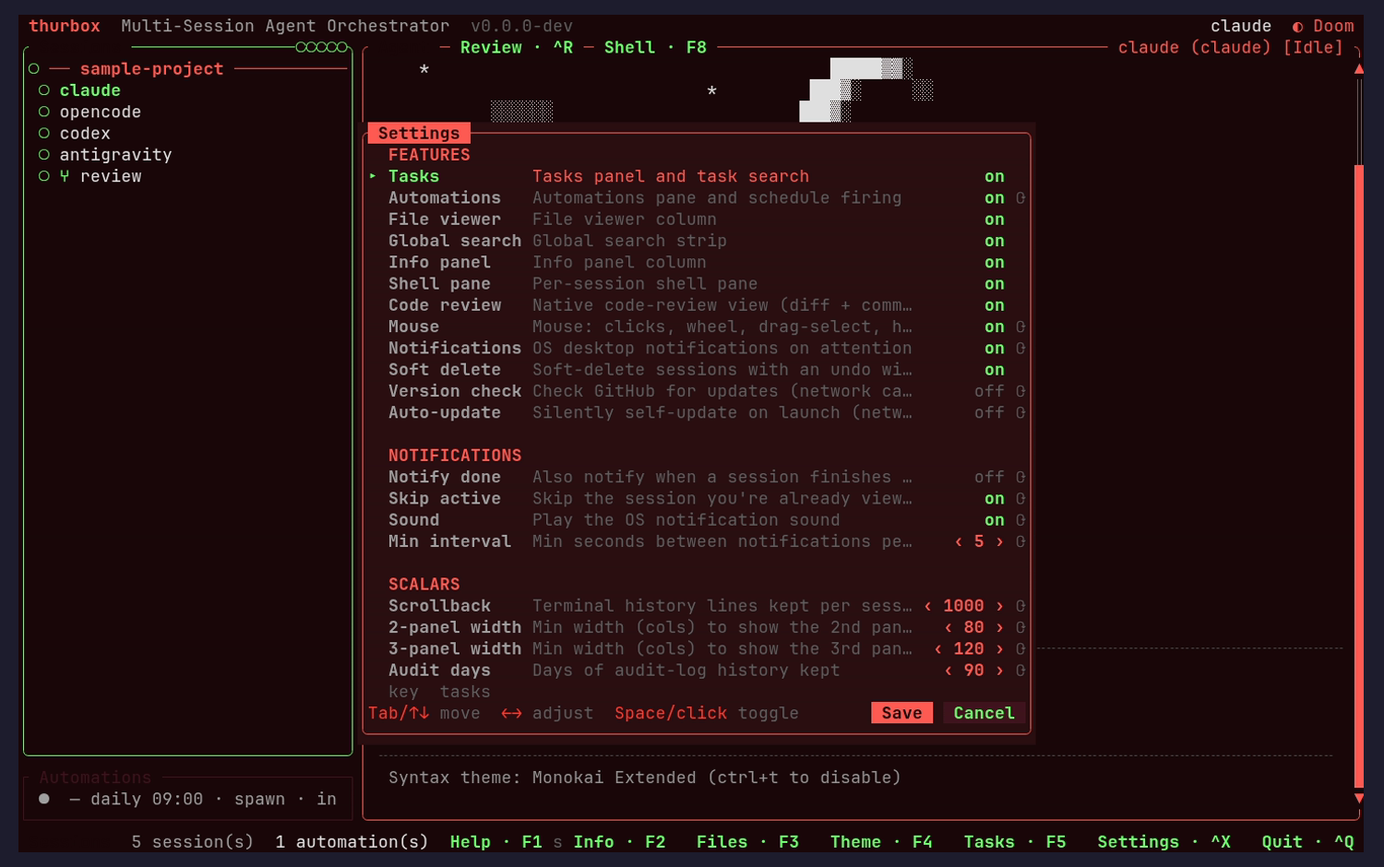
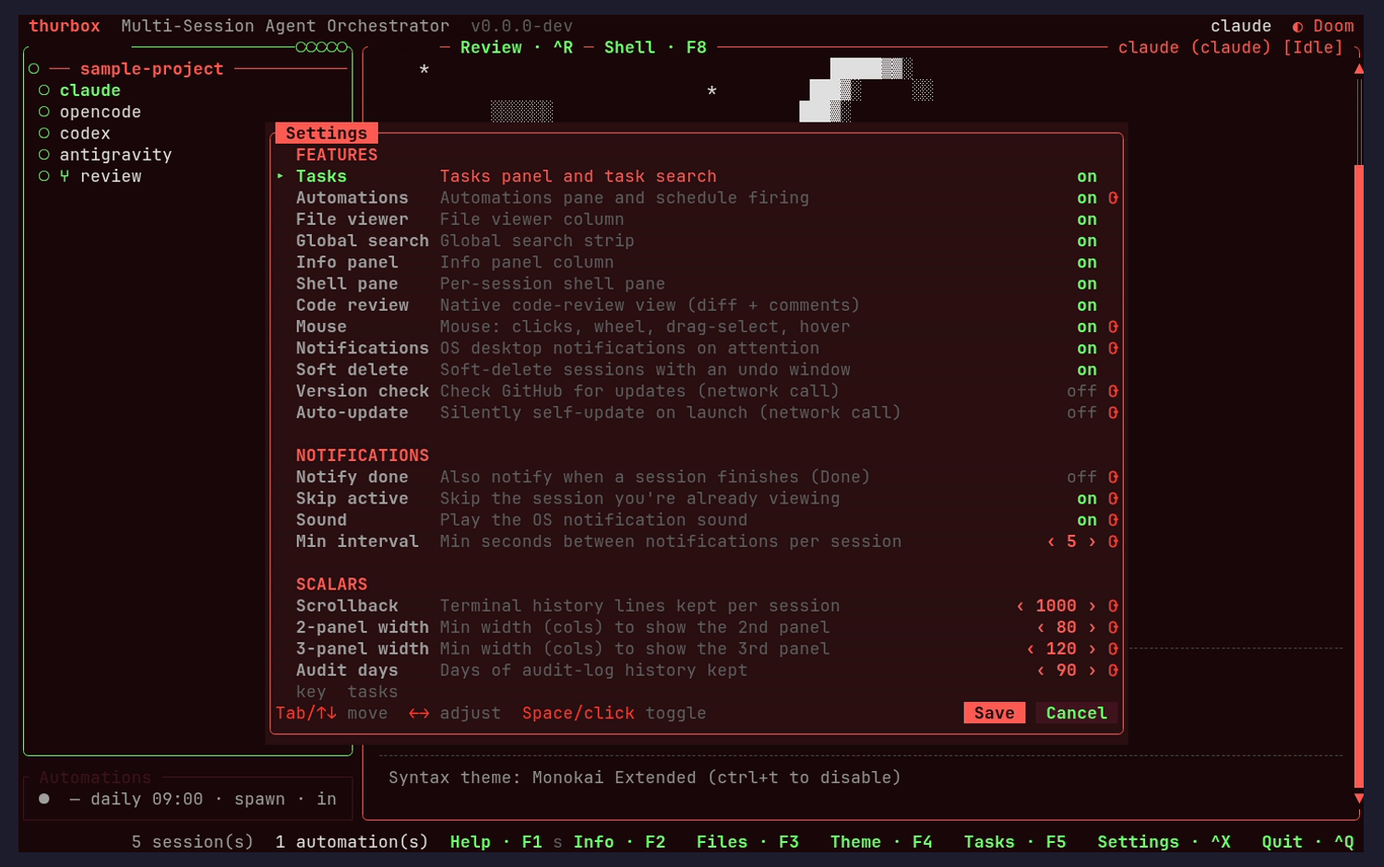
fix(ui): stop footer/value overlap in repo picker and settings panel
The UI/UX review flagged two warnings:

- Repo picker: the focus-dependent key-hint row was painted full-width and
  the Done/Cancel pills drawn on top, so a wide hint collided with them
  ("Ta█Done█t Cancel"). Add a shared render_hint_action_footer that draws the
  right-packed pills first, then clips the hint to the space left of the
  leftmost pill (minus a one-column gap) so it elides cleanly.

- Settings panel: descriptions truncated aggressively because the modal was
  a fixed 66 cols. Widen it to 84 cols on >=120-col terminals so the longest
  descriptions render in full; the value column is unchanged. The faint
  muted-gray restart marker now reuses the bold accent-warning colour of the
  restart note, and its restart_required() lookup is computed once per row.

Regenerate the website UI/UX review page: both warnings are resolved and the
run now reports findings that are all nits.

diff --git a/website/docs/ui-review.html b/website/docs/ui-review.html
@@ -22,13 +22,14 @@ onThisPage:
   - { id: 'screen-13', label: 'Task editor (in-pane)' }
   - { id: 'screen-14', label: 'Code-review view (branch diff + changed-files column)' }
   - { id: 'screen-15', label: 'Code review: inline comment compose + classification' }
-  - { id: 'screen-16', label: 'Code review: target picker (working / branch / commit)' }
+  - { id: 'screen-16', label: 'Code review: side-by-side diff layout' }
+  - { id: 'screen-17', label: 'Code review: target picker (working / branch / commit)' }
 ---
 <h1>thurbox TUI — UI/UX Review</h1>
 <div class="review-meta">
-  <span>thurbox v0.0.0-dev</span>
+  <span>thurbox 0.0.0-dev</span>
   <span>theme: Doom</span>
-  <span>generated 2026-06-30 06:40 UTC</span>
+  <span>generated 2026-06-30 18:43 UTC</span>
 </div>
 
 <div class="info-box">
@@ -40,24 +41,25 @@ onThisPage:
   </p>
 </div>
 
-<h2 id="summary">Summary — 22 findings across 16 screens</h2>
-<div class="sev-counts"><span class="sev-pill"><span class="dot" style="background:var(--yellow)"></span>2 warnings</span><span class="sev-pill"><span class="dot" style="background:var(--blue)"></span>20 nits</span><span class="sev-pill"><span class="dot" style="background:var(--purple)"></span>7 visual</span><span class="sev-pill"><span class="dot" style="background:var(--green)"></span>8 usability</span><span class="sev-pill"><span class="dot" style="background:var(--yellow)"></span>4 consistency</span><span class="sev-pill"><span class="dot" style="background:var(--blue)"></span>3 accessibility</span></div>
+<h2 id="summary">Summary — 21 findings across 17 screens</h2>
+<div class="sev-counts"><span class="sev-pill"><span class="dot" style="background:var(--blue)"></span>21 nits</span><span class="sev-pill"><span class="dot" style="background:var(--purple)"></span>8 visual</span><span class="sev-pill"><span class="dot" style="background:var(--green)"></span>8 usability</span><span class="sev-pill"><span class="dot" style="background:var(--yellow)"></span>4 consistency</span><span class="sev-pill"><span class="dot" style="background:var(--blue)"></span>1 accessibility</span></div>
 <h3>Top recommendations</h3>
-<ol><li>Modal footer crowding (the one concrete defect this run): on the repo picker the textual key-hint row collides with the Save/Done/Cancel pill buttons at this width — &quot;Tab&quot; is rendered partially underneath the &quot;Done&quot; pill (&quot;Ta█Done█t Cancel&quot;). Reserve the button strip its own right-aligned space and elide/clip the hint row before it reaches the buttons.</li><li>Settings panel polish: feature/notification descriptions truncate aggressively with &quot;…&quot; because the value column + restart marker eat horizontal room, and the restart-required marker after a value is very low-contrast. Widen the description column at ≥120 cols and render the restart marker as a clearer accent/warning glyph (or add a one-line legend).</li><li>Theme picker preview: the Accent and Status-glyph swatches read clearly, but the Border and Modal-bg preview chips are nearly invisible (thin outline / dark-on-dark). Render all four as filled chips so the live preview communicates the whole palette.</li><li>Consistent long-value truncation: several panels clip differently — the info panel wraps &quot;not logged in (no subscription token)&quot; across three lines, the automation editor shows a full absolute repo path, and the bottom Automations pane cuts off &quot;… · in &lt;time&gt;&quot;. Adopt one middle-truncation rule that keeps the most useful end (repo leaf, next-run time) visible.</li><li>Confirmed resolved: the prior blocker (global-search highlight crash on truncated rows) does not reproduce — searching &quot;test&quot; highlights truncated task rows like &quot;Document the search f…&quot; with underline+bold and no panic.</li><li>The native code-review view is well-realized: per-file diff headers with +/- counts, syntax-highlighted hunks, a mirrored changed-files column, in-context inline comment compose, and a target picker (working / branch / per-commit) — see the three code-review screens below.</li><li>Coverage caveat (not a product issue): the side-by-side diff layout is not shown this run. At the capture width the split-column layout falls back to unified, so that one screenshot was excluded; re-capture at a wider terminal to feature it.</li></ol>
+<ol><li>Both prior warnings are resolved this run: the repo-picker footer no longer overlaps its action pills (the hint clips with a clean gap before Done/Cancel), and the Settings panel widens to ~84 cols at ≥120-col terminals so every feature/notification description renders in full instead of clipping with “…”, with the ↻ restart marker now an accent-warning glyph instead of near-invisible gray.</li><li>Theme picker preview (nit, unchanged): the Accent swatches and Status glyphs read clearly, but the Border and Modal-bg preview chips are still nearly invisible (thin outline / dark-on-dark). Render all four as filled chips so the live preview communicates the whole palette.</li><li>Consistent long-value truncation (nit, unchanged): the info panel still wraps “not logged in (no subscription token)” across three lines, the automation editor shows a full absolute repo path, and the bottom Automations pane cuts off “… · in &lt;time&gt;”. Adopt one middle-truncation rule that keeps the most useful end (repo leaf, next-run time) visible.</li><li>Side-by-side diff layout is now captured (the prior coverage caveat is resolved): the split-column view renders one source line per row with add/del on their own side. The native code-review view remains well-realized — per-file headers with +/- counts, syntax-highlighted hunks, mirrored changed-files column, inline comment compose, and a working/branch/commit target picker.</li><li>No blockers or warnings remain; the open items are all polish nits.</li></ol>
 
-<div class="review-card" id="screen-1"><h3>Session list + terminal (default view) <span class="keys">launch</span></h3><div class="review-shot"><img loading="lazy" alt="Session list + terminal (default view)" src="../assets/ui-review/01-session-list.png"></div><div class="review-findings"><div class="finding"><span class="sev" style="color:var(--blue);border-color:var(--blue)">nit</span><div class="body"><span class="ftitle">Footer surfaces the F-key panel alternates</span><span class="lens" style="color:var(--green);border-color:var(--green)">usability</span><div class="fdesc">The bottom bar shows Help·F1, Tasks·F5, Files·F3, Settings, Theme·F4 directly, so a user whose terminal is focused (where the Ctrl panel chords pass through to the agent) still has a discoverable way to reach each panel.</div><div class="ffix"><b>Fix:</b> No change needed — noted as a strength; it mitigates the terminal-passthrough discoverability gap.</div></div></div><div class="finding"><span class="sev" style="color:var(--blue);border-color:var(--blue)">nit</span><div class="body"><span class="ftitle">Session status uses shape + colour</span><span class="lens" style="color:var(--blue);border-color:var(--blue)">accessibility</span><div class="fdesc">Each session shows a status glyph and repo groups roll up to a colored dot; idle/working/blocked/done use distinct shapes (○/spinner/◆/●) in addition to colour, so status survives colour-blindness.</div><div class="ffix"><b>Fix:</b> No change needed — noted as a strength.</div></div></div><div class="finding"><span class="sev" style="color:var(--blue);border-color:var(--blue)">nit</span><div class="body"><span class="ftitle">Automations pane summary is cut off at the column edge</span><span class="lens" style="color:var(--purple);border-color:var(--purple)">visual</span><div class="fdesc">The bottom-left Automations summary renders as &quot;daily 09:00 · spawn · in&quot; with the actual next-run value clipped off the right edge of the narrow left column.</div><div class="ffix"><b>Fix:</b> Middle-truncate the summary so the &quot;in &lt;time&gt;&quot; tail stays visible, or drop the cadence text when space is tight.</div></div></div></div></div>
+<div class="review-card" id="screen-1"><h3>Session list + terminal (default view) <span class="keys">launch</span></h3><div class="review-shot"><img loading="lazy" alt="Session list + terminal (default view)" src="../assets/ui-review/01-session-list.png"></div><div class="review-findings"><div class="finding"><span class="sev" style="color:var(--blue);border-color:var(--blue)">nit</span><div class="body"><span class="ftitle">Footer surfaces the F-key panel alternates</span><span class="lens" style="color:var(--green);border-color:var(--green)">usability</span><div class="fdesc">The bottom bar shows Help·F1, Info·F2, Files·F3, Theme·F4, Tasks·F5, Settings·^X, Quit·^Q directly, so a user whose terminal is focused (where the Ctrl panel chords pass through to the agent) still has a discoverable way to reach each panel.</div><div class="ffix"><b>Fix:</b> No change needed — noted as a strength; it mitigates the terminal-passthrough discoverability gap.</div></div></div><div class="finding"><span class="sev" style="color:var(--blue);border-color:var(--blue)">nit</span><div class="body"><span class="ftitle">Automations pane summary is cut off at the column edge</span><span class="lens" style="color:var(--purple);border-color:var(--purple)">visual</span><div class="fdesc">The bottom-left Automations summary renders as “daily 09:00 · spawn · in” with the actual next-run value clipped off the right edge of the narrow left column.</div><div class="ffix"><b>Fix:</b> Middle-truncate the summary so the “in &lt;time&gt;” tail stays visible, or drop the cadence text when space is tight.</div></div></div></div></div>
 <div class="review-card" id="screen-2"><h3>A different session selected <span class="keys">Ctrl+J</span></h3><div class="review-shot"><img loading="lazy" alt="A different session selected" src="../assets/ui-review/02-second-session.png"></div><div class="review-findings"><div class="finding"><span class="sev" style="color:var(--blue);border-color:var(--blue)">nit</span><div class="body"><span class="ftitle">Selection highlight and status badge stay in sync</span><span class="lens" style="color:var(--yellow);border-color:var(--yellow)">consistency</span><div class="fdesc">Moving the selection updates the solid-fill row highlight and the top-right session badge together; the selected name stays legible on the accent fill.</div><div class="ffix"><b>Fix:</b> No change needed.</div></div></div></div></div>
-<div class="review-card" id="screen-3"><h3>Session info panel <span class="keys">Ctrl+B</span></h3><div class="review-shot"><img loading="lazy" alt="Session info panel" src="../assets/ui-review/03-info-panel.png"></div><div class="review-findings"><div class="finding"><span class="sev" style="color:var(--blue);border-color:var(--blue)">nit</span><div class="body"><span class="ftitle">Long values wrap raggedly in the narrow Info column</span><span class="lens" style="color:var(--purple);border-color:var(--purple)">visual</span><div class="fdesc">The info panel stacks under the session list, so &quot;not logged in (no subscription token)&quot; wraps across three lines and the &quot;Repos:&quot; label sits on its own line with the value beneath. Readable but ragged. Density is otherwise strong (Name/Status/Agent/Repos, per-session + system CPU/RAM gauges, Automations countdown).</div><div class="ffix"><b>Fix:</b> Let the value use the full column width (label above, value indented) or abbreviate — not urgent.</div></div></div></div></div>
+<div class="review-card" id="screen-3"><h3>Session info panel <span class="keys">Ctrl+B</span></h3><div class="review-shot"><img loading="lazy" alt="Session info panel" src="../assets/ui-review/03-info-panel.png"></div><div class="review-findings"><div class="finding"><span class="sev" style="color:var(--blue);border-color:var(--blue)">nit</span><div class="body"><span class="ftitle">Long values wrap raggedly in the narrow Info column</span><span class="lens" style="color:var(--purple);border-color:var(--purple)">visual</span><div class="fdesc">The info panel stacks under the session list, so “not logged in (no subscription token)” wraps across three lines and the “Repos:” label sits on its own line with the value beneath. Readable but ragged. Density is otherwise strong (Name/Status/Agent/Repos, per-session + system CPU/RAM gauges, Automations countdown).</div><div class="ffix"><b>Fix:</b> Let the value use the full column width (label above, value indented) or abbreviate — not urgent.</div></div></div></div></div>
 <div class="review-card" id="screen-4"><h3>File viewer (repo tree) <span class="keys">Ctrl+E</span></h3><div class="review-shot"><img loading="lazy" alt="File viewer (repo tree)" src="../assets/ui-review/04-file-viewer.png"></div><div class="review-findings"><div class="finding"><span class="sev" style="color:var(--blue);border-color:var(--blue)">nit</span><div class="body"><span class="ftitle">Directory markers + a context-specific hint row</span><span class="lens" style="color:var(--yellow);border-color:var(--yellow)">consistency</span><div class="fdesc">Directories carry ▸ expand markers and the footer switches to file-viewer hints (j/k Move · h/l Collapse/Expand · Open · Search), matching the pattern of the other focusable panes.</div><div class="ffix"><b>Fix:</b> No change needed.</div></div></div></div></div>
-<div class="review-card" id="screen-5"><h3>Tasks panel (todo list) <span class="keys">Ctrl+W</span></h3><div class="review-shot"><img loading="lazy" alt="Tasks panel (todo list)" src="../assets/ui-review/05-tasks-panel.png"></div><div class="review-findings"><div class="finding"><span class="sev" style="color:var(--blue);border-color:var(--blue)">nit</span><div class="body"><span class="ftitle">Empty-state copy teaches the key</span><span class="lens" style="color:var(--green);border-color:var(--green)">usability</span><div class="fdesc">The detail pane shows &quot;No description — press e to add notes.&quot;, explaining the empty state and the relevant key in one line; the full task title is shown there even though the right-column rows truncate it.</div><div class="ffix"><b>Fix:</b> No change needed — a pattern worth reusing elsewhere.</div></div></div><div class="finding"><span class="sev" style="color:var(--blue);border-color:var(--blue)">nit</span><div class="body"><span class="ftitle">Task status carries shape + colour</span><span class="lens" style="color:var(--blue);border-color:var(--blue)">accessibility</span><div class="fdesc">Todo/in-progress/done use distinct glyphs (☐/◐/☑) in addition to colour.</div><div class="ffix"><b>Fix:</b> No change needed.</div></div></div></div></div>
-<div class="review-card" id="screen-6"><h3>Automations list <span class="keys">Ctrl+P</span></h3><div class="review-shot"><img loading="lazy" alt="Automations list" src="../assets/ui-review/06-automations.png"></div><div class="review-findings"><div class="finding"><span class="sev" style="color:var(--blue);border-color:var(--blue)">nit</span><div class="body"><span class="ftitle">Schedule summary is scannable</span><span class="lens" style="color:var(--green);border-color:var(--green)">usability</span><div class="fdesc">&quot;nightly-triage — daily 09:00 · spawn · in 24m 3s&quot; packs name, cadence, action type, and next-run into one line; the modal is centered with Edit/Close pills like the other overlays.</div><div class="ffix"><b>Fix:</b> No change needed.</div></div></div></div></div>
-<div class="review-card" id="screen-7"><h3>Global search strip <span class="keys">Ctrl+/ (Ctrl+A in this capture) + query</span></h3><div class="review-shot"><img loading="lazy" alt="Global search strip" src="../assets/ui-review/07-global-search.png"></div><div class="review-findings"><div class="finding"><span class="sev" style="color:var(--blue);border-color:var(--blue)">nit</span><div class="body"><span class="ftitle">Strong feedback: per-scope counts + grouped results</span><span class="lens" style="color:var(--green);border-color:var(--green)">usability</span><div class="fdesc">Typing &quot;test&quot; shows &quot;1 session · 2 tasks · 1 file [1/4]&quot; with grouped SESSIONS/TASKS/FILES results and a session content snippet; the unmatched task row dims.</div><div class="ffix"><b>Fix:</b> No change needed.</div></div></div><div class="finding"><span class="sev" style="color:var(--blue);border-color:var(--blue)">nit</span><div class="body"><span class="ftitle">In-panel match highlight isn&#x27;t colour-only (prior blocker resolved)</span><span class="lens" style="color:var(--blue);border-color:var(--blue)">accessibility</span><div class="fdesc">Matched characters in the live panels use underline + bold in addition to the accent colour, and truncated rows (&quot;Document the search f…&quot;) now highlight without crashing — the earlier search-highlight panic on a multi-byte ellipsis does not reproduce.</div><div class="ffix"><b>Fix:</b> No change needed — confirms the char-boundary fix.</div></div></div></div></div>
+<div class="review-card" id="screen-5"><h3>Tasks panel (todo list) <span class="keys">Ctrl+W</span></h3><div class="review-shot"><img loading="lazy" alt="Tasks panel (todo list)" src="../assets/ui-review/05-tasks-panel.png"></div><div class="review-findings"><div class="finding"><span class="sev" style="color:var(--blue);border-color:var(--blue)">nit</span><div class="body"><span class="ftitle">Empty-state copy teaches the key</span><span class="lens" style="color:var(--green);border-color:var(--green)">usability</span><div class="fdesc">The detail pane shows “No description — press e to add notes.”, explaining the empty state and the relevant key in one line; the full task title is shown there even though the right-column rows truncate it.</div><div class="ffix"><b>Fix:</b> No change needed — a pattern worth reusing elsewhere.</div></div></div><div class="finding"><span class="sev" style="color:var(--blue);border-color:var(--blue)">nit</span><div class="body"><span class="ftitle">Task status carries shape + colour</span><span class="lens" style="color:var(--blue);border-color:var(--blue)">accessibility</span><div class="fdesc">Todo/in-progress/done use distinct glyphs (☐/◐/☑) in addition to colour.</div><div class="ffix"><b>Fix:</b> No change needed.</div></div></div></div></div>
+<div class="review-card" id="screen-6"><h3>Automations list <span class="keys">Ctrl+P</span></h3><div class="review-shot"><img loading="lazy" alt="Automations list" src="../assets/ui-review/06-automations.png"></div><div class="review-findings"><div class="finding"><span class="sev" style="color:var(--blue);border-color:var(--blue)">nit</span><div class="body"><span class="ftitle">Schedule summary is scannable</span><span class="lens" style="color:var(--green);border-color:var(--green)">usability</span><div class="fdesc">“nightly-triage — daily 09:00 · spawn · in 12h 20m” packs name, cadence, action type, and next-run into one line; the modal is centered with Edit/Close pills like the other overlays.</div><div class="ffix"><b>Fix:</b> No change needed.</div></div></div></div></div>
+<div class="review-card" id="screen-7"><h3>Global search strip <span class="keys">Ctrl+/ + query</span></h3><div class="review-shot"><img loading="lazy" alt="Global search strip" src="../assets/ui-review/07-global-search.png"></div><div class="review-findings"><div class="finding"><span class="sev" style="color:var(--blue);border-color:var(--blue)">nit</span><div class="body"><span class="ftitle">Strong feedback: per-scope counts + grouped results</span><span class="lens" style="color:var(--green);border-color:var(--green)">usability</span><div class="fdesc">Typing “test” shows “2 tasks · 1 file [1/3]” with grouped TASKS/FILES results; matched characters highlight with underline + bold (not colour-only) in the live panels, and the unmatched task row dims.</div><div class="ffix"><b>Fix:</b> No change needed.</div></div></div></div></div>
 <div class="review-card" id="screen-8"><h3>Theme picker <span class="keys">Ctrl+Y</span></h3><div class="review-shot"><img loading="lazy" alt="Theme picker" src="../assets/ui-review/08-theme-picker.png"></div><div class="review-findings"><div class="finding"><span class="sev" style="color:var(--blue);border-color:var(--blue)">nit</span><div class="body"><span class="ftitle">Border and Modal-bg preview chips are nearly invisible</span><span class="lens" style="color:var(--purple);border-color:var(--purple)">visual</span><div class="fdesc">The live preview shows Accent (filled red/green swatches) and Status glyphs (◐◆●○✗) clearly, but the Border and Modal-bg rows render as a thin outline / dark-on-dark, so two of the four preview rows read as empty.</div><div class="ffix"><b>Fix:</b> Render Border and Modal-bg as filled chips like the Accent swatch so the whole palette previews at a glance.</div></div></div></div></div>
-<div class="review-card" id="screen-9"><h3>New-session / repo picker <span class="keys">Ctrl+N</span></h3><div class="review-shot"><img loading="lazy" alt="New-session / repo picker" src="../assets/ui-review/09-repo-picker.png"></div><div class="review-findings"><div class="finding"><span class="sev" style="color:var(--yellow);border-color:var(--yellow)">warning</span><div class="body"><span class="ftitle">Footer key-hints collide with the action pill buttons</span><span class="lens" style="color:var(--purple);border-color:var(--purple)">visual</span><div class="fdesc">In the modal footer the textual hint row and the Done/Cancel pills overlap at this width: the &quot;Tab&quot; hint is rendered partly underneath the &quot;Done&quot; pill (&quot;Ta█Done█t Cancel&quot;), so neither reads cleanly.</div><div class="ffix"><b>Fix:</b> Reserve the right-aligned button strip its own space and clip/elide the hint row before it reaches the buttons (or drop the textual Tab hint when the pills are shown).</div></div></div><div class="finding"><span class="sev" style="color:var(--blue);border-color:var(--blue)">nit</span><div class="body"><span class="ftitle">Clear empty state points at the next action</span><span class="lens" style="color:var(--green);border-color:var(--green)">usability</span><div class="fdesc">&quot;No bookmarks — add via path input below&quot; explains the empty list and directs the user to the Add Repo Path input.</div><div class="ffix"><b>Fix:</b> No change needed.</div></div></div></div></div>
+<div class="review-card" id="screen-9"><h3>New-session / repo picker <span class="keys">Ctrl+N</span></h3><div class="review-shot"><img loading="lazy" alt="New-session / repo picker" src="../assets/ui-review/09-repo-picker.png"></div><div class="review-findings"><div class="finding"><span class="sev" style="color:var(--blue);border-color:var(--blue)">nit</span><div class="body"><span class="ftitle">Footer key-hints no longer collide with the action pills (prior warning resolved)</span><span class="lens" style="color:var(--purple);border-color:var(--purple)">visual</span><div class="fdesc">The earlier overlap (“Ta█Done█t Cancel”) is gone: the hint row now clips to the space left of the Done/Cancel pills with a one-column gap, so both read cleanly. The fix is shared in render_hint_action_footer, which reserves the right-aligned button strip its own space.</div><div class="ffix"><b>Fix:</b> No change needed — confirms the footer-collision fix. (The clip can cut the last hint mid-word; eliding at a word boundary would be a small polish follow-up.)</div></div></div><div class="finding"><span class="sev" style="color:var(--blue);border-color:var(--blue)">nit</span><div class="body"><span class="ftitle">Clear empty state points at the next action</span><span class="lens" style="color:var(--green);border-color:var(--green)">usability</span><div class="fdesc">“No bookmarks — add via path input below” explains the empty list and directs the user to the Add Repo Path input.</div><div class="ffix"><b>Fix:</b> No change needed.</div></div></div></div></div>
 <div class="review-card" id="screen-10"><h3>Keybindings help + editor <span class="keys">Ctrl+G / F1</span></h3><div class="review-shot"><img loading="lazy" alt="Keybindings help + editor" src="../assets/ui-review/10-keybindings.png"></div><div class="review-findings"><div class="finding"><span class="sev" style="color:var(--blue);border-color:var(--blue)">nit</span><div class="body"><span class="ftitle">Comprehensive, sectioned, scrollable, rebind-ready</span><span class="lens" style="color:var(--green);border-color:var(--green)">usability</span><div class="fdesc">Bindings are grouped (Navigation / Sessions / Project / UI) with a scrollbar, a clear selected row, and a footer for the live-rebind workflow (j/k move · r rebind · d reset · Reset all).</div><div class="ffix"><b>Fix:</b> No change needed; slightly heavier section headers would speed scanning.</div></div></div></div></div>
-<div class="review-card" id="screen-11"><h3>Settings panel <span class="keys">Ctrl+, / F6 (Ctrl+X in this capture)</span></h3><div class="review-shot"><img loading="lazy" alt="Settings panel" src="../assets/ui-review/11-settings-panel.png"></div><div class="review-findings"><div class="finding"><span class="sev" style="color:var(--yellow);border-color:var(--yellow)">warning</span><div class="body"><span class="ftitle">Descriptions truncate aggressively; restart marker is faint</span><span class="lens" style="color:var(--purple);border-color:var(--purple)">visual</span><div class="fdesc">FEATURES/NOTIFICATIONS/SCALARS are well grouped with a right-aligned value column, but the descriptions clip with &quot;…&quot; (&quot;Native code-review view (diff + comm…&quot;, &quot;Mouse: clicks, wheel, drag-select, h…&quot;, &quot;Soft-delete sessions with an undo wi…&quot;) because the value column + restart marker consume the row, and the restart-required marker after a value is very low-contrast.</div><div class="ffix"><b>Fix:</b> Widen the description column at ≥120 cols (the value/marker can sit in a narrower aligned column) and render the restart marker as a clearer accent/warning ↻.</div></div></div></div></div>
+<div class="review-card" id="screen-11"><h3>Settings panel <span class="keys">Ctrl+, / F6</span></h3><div class="review-shot"><img loading="lazy" alt="Settings panel" src="../assets/ui-review/11-settings-panel.png"></div><div class="review-findings"><div class="finding"><span class="sev" style="color:var(--blue);border-color:var(--blue)">nit</span><div class="body"><span class="ftitle">Descriptions render in full and the restart marker is legible (prior warning resolved)</span><span class="lens" style="color:var(--purple);border-color:var(--purple)">visual</span><div class="fdesc">On a ≥120-col terminal the modal widens to ~84 cols, so every description renders in full (“Native code-review view (diff + comments)”, “Mouse: clicks, wheel, drag-select, hover”, “Soft-delete sessions with an undo window”, “Min seconds between notifications per session”) instead of clipping with “…”. The ↻ restart marker now uses the same bold accent-warning colour as the restart note, so it stands out against the dim values.</div><div class="ffix"><b>Fix:</b> No change needed — confirms the truncation + marker-contrast fix. The compact 66-col layout still applies on narrow terminals (where some descriptions necessarily clip).</div></div></div></div></div>
 <div class="review-card" id="screen-12"><h3>Automation editor (multi-line prompt) <span class="keys">Ctrl+P then Enter</span></h3><div class="review-shot"><img loading="lazy" alt="Automation editor (multi-line prompt)" src="../assets/ui-review/12-automation-editor.png"></div><div class="review-findings"><div class="finding"><span class="sev" style="color:var(--blue);border-color:var(--blue)">nit</span><div class="body"><span class="ftitle">Multi-line prompt renders inline; consistent footer</span><span class="lens" style="color:var(--purple);border-color:var(--purple)">visual</span><div class="fdesc">The wrapping prompt field shows its content within the field and the footer carries Save/Cancel pills + ^E enable, consistent with the other editors. The repo value is a long absolute sandbox path that fills the column.</div><div class="ffix"><b>Fix:</b> Middle-truncate a long repo path so the repo leaf stays visible.</div></div></div></div></div>
 <div class="review-card" id="screen-13"><h3>Task editor (in-pane) <span class="keys">Ctrl+W then Enter</span></h3><div class="review-shot"><img loading="lazy" alt="Task editor (in-pane)" src="../assets/ui-review/13-task-editor.png"></div><div class="review-findings"><div class="finding"><span class="sev" style="color:var(--blue);border-color:var(--blue)">nit</span><div class="body"><span class="ftitle">Editor vocabulary matches the automation editor</span><span class="lens" style="color:var(--yellow);border-color:var(--yellow)">consistency</span><div class="fdesc">Field navigation and footer hints (Tab/↑↓ move · ←→ adjust · Enter/^S save · Esc cancel) mirror the automation editor, and the ‹ todo › status stepper matches the Settings scalars.</div><div class="ffix"><b>Fix:</b> No change needed; the full-screen pane is mostly empty below the three fields — fine as headroom for a growing multi-line description.</div></div></div></div></div>
-<div class="review-card" id="screen-14"><h3>Code-review view (branch diff + changed-files column) <span class="keys">Ctrl+X / F7</span></h3><div class="review-shot"><img loading="lazy" alt="Code-review view (branch diff + changed-files column)" src="../assets/ui-review/11-code-review.png"></div><div class="review-findings"><div class="finding"><span class="sev" style="color:var(--blue);border-color:var(--blue)">nit</span><div class="body"><span class="ftitle">Dense, GitHub-style diff that reads at a glance</span><span class="lens" style="color:var(--purple);border-color:var(--purple)">visual</span><div class="fdesc">Each file has a header with status + path + per-file counts (A src/greet.rs +3 -0), hunks are syntax-highlighted with gutter +/- signs and a subtle row tint, line numbers show on both sides, and the header names the target (&quot;All branch changes (master..HEAD) +11 -2&quot;). The Agent/Review/Shell tab bar and the right-hand changed-files column reuse the app&#x27;s border/accent treatment.</div><div class="ffix"><b>Fix:</b> No change needed — a strong, theme-aware view.</div></div></div><div class="finding"><span class="sev" style="color:var(--blue);border-color:var(--blue)">nit</span><div class="body"><span class="ftitle">Footer buttons are labelled with their keys</span><span class="lens" style="color:var(--green);border-color:var(--green)">usability</span><div class="fdesc">Comment·c, Send→Agent·e, Close·esc, Find·/, File·f, Summary·s make the shortcuts discoverable, and the changed-files column carries its own nav legend (↑↓ move · ↵ open · r …).</div><div class="ffix"><b>Fix:</b> No change needed.</div></div></div></div></div>
-<div class="review-card" id="screen-15"><h3>Code review: inline comment compose + classification <span class="keys">c</span></h3><div class="review-shot"><img loading="lazy" alt="Code review: inline comment compose + classification" src="../assets/ui-review/12-code-review-comment.png"></div><div class="review-findings"><div class="finding"><span class="sev" style="color:var(--blue);border-color:var(--blue)">nit</span><div class="body"><span class="ftitle">Comment composes in context, not in a separate modal</span><span class="lens" style="color:var(--yellow);border-color:var(--yellow)">consistency</span><div class="fdesc">The compose box floats inline at the selected diff line with a classification badge ([Praise]/issue/suggestion/note) and an inline hint (Tab: cycle type · Ctrl+S save · Esc cancel); the footer swaps to Save·^S / Cancel·esc / Class·tab, matching the editor pattern elsewhere.</div><div class="ffix"><b>Fix:</b> No change needed.</div></div></div></div></div>
-<div class="review-card" id="screen-16"><h3>Code review: target picker (working / branch / commit) <span class="keys">t</span></h3><div class="review-shot"><img loading="lazy" alt="Code review: target picker (working / branch / commit)" src="../assets/ui-review/14-code-review-targets.png"></div><div class="review-findings"><div class="finding"><span class="sev" style="color:var(--blue);border-color:var(--blue)">nit</span><div class="body"><span class="ftitle">Target picker covers the three useful scopes</span><span class="lens" style="color:var(--green);border-color:var(--green)">usability</span><div class="fdesc">The picker lists Working changes (uncommitted), All branch changes (master..HEAD), and each commit in range (0df6d03 feat: add greeting + checked arithmetic), with the active target highlighted — the orchestrator-native equivalent of tuicr&#x27;s -w/-r/commit targets.</div><div class="ffix"><b>Fix:</b> No change needed.</div></div></div></div></div>
+<div class="review-card" id="screen-14"><h3>Code-review view (branch diff + changed-files column) <span class="keys">Ctrl+X / F7</span></h3><div class="review-shot"><img loading="lazy" alt="Code-review view (branch diff + changed-files column)" src="../assets/ui-review/11-code-review.png"></div><div class="review-findings"><div class="finding"><span class="sev" style="color:var(--blue);border-color:var(--blue)">nit</span><div class="body"><span class="ftitle">Dense, GitHub-style diff that reads at a glance</span><span class="lens" style="color:var(--purple);border-color:var(--purple)">visual</span><div class="fdesc">Each file has a header with status + path + per-file counts (A src/greet.rs +3 -0), hunks are syntax-highlighted with gutter +/- signs and a subtle row tint, line numbers show on both sides, and the header names the target (“All branch changes (master..HEAD) +11 -2”). The Agent/Review/Shell tab bar and the right-hand changed-files column reuse the app’s border/accent treatment.</div><div class="ffix"><b>Fix:</b> No change needed — a strong, theme-aware view.</div></div></div><div class="finding"><span class="sev" style="color:var(--blue);border-color:var(--blue)">nit</span><div class="body"><span class="ftitle">Footer buttons are labelled with their keys</span><span class="lens" style="color:var(--green);border-color:var(--green)">usability</span><div class="fdesc">Comment·c, Send→Agent·e, Close·esc, Find·/, File·f, Summary·s make the shortcuts discoverable, and the changed-files column carries its own nav legend (↑↓ move · ↵ open · r …).</div><div class="ffix"><b>Fix:</b> No change needed.</div></div></div></div></div>
+<div class="review-card" id="screen-15"><h3>Code review: inline comment compose + classification <span class="keys">c</span></h3><div class="review-shot"><img loading="lazy" alt="Code review: inline comment compose + classification" src="../assets/ui-review/12-code-review-comment.png"></div><div class="review-findings"><div class="finding"><span class="sev" style="color:var(--blue);border-color:var(--blue)">nit</span><div class="body"><span class="ftitle">Comment composes in context, not in a separate modal</span><span class="lens" style="color:var(--yellow);border-color:var(--yellow)">consistency</span><div class="fdesc">The compose box floats inline at the selected diff line with a classification badge ([Praise]/issue/suggestion/note) and an inline hint (Tab: cycle type · Ctrl+S: save · Esc: cancel); the footer swaps to Save·^S / Cancel·esc / Class·tab, matching the editor pattern elsewhere.</div><div class="ffix"><b>Fix:</b> The inline-hint header clips its trailing “Esc: cancel” at the diff width — minor; the same hint is fully shown in the footer pills, so no information is lost.</div></div></div></div></div>
+<div class="review-card" id="screen-16"><h3>Code review: side-by-side diff layout <span class="keys">v</span></h3><div class="review-shot"><img loading="lazy" alt="Code review: side-by-side diff layout" src="../assets/ui-review/13-code-review-sidebyside.png"></div><div class="review-findings"><div class="finding"><span class="sev" style="color:var(--blue);border-color:var(--blue)">nit</span><div class="body"><span class="ftitle">Side-by-side split-column layout (prior coverage caveat resolved)</span><span class="lens" style="color:var(--purple);border-color:var(--purple)">visual</span><div class="fdesc">Toggling with v renders the split-column layout: removed lines on the left, added on the right, with context mirrored on both sides and per-file headers retained. Long right-column lines clip at the column edge, as expected for a split view.</div><div class="ffix"><b>Fix:</b> No change needed; true paired side-by-side (one logical change per row) is a named v1 follow-up.</div></div></div></div></div>
+<div class="review-card" id="screen-17"><h3>Code review: target picker (working / branch / commit) <span class="keys">t</span></h3><div class="review-shot"><img loading="lazy" alt="Code review: target picker (working / branch / commit)" src="../assets/ui-review/14-code-review-targets.png"></div><div class="review-findings"><div class="finding"><span class="sev" style="color:var(--blue);border-color:var(--blue)">nit</span><div class="body"><span class="ftitle">Target picker covers the three useful scopes</span><span class="lens" style="color:var(--green);border-color:var(--green)">usability</span><div class="fdesc">The picker lists Working changes (uncommitted), All branch changes (master..HEAD), and each commit in range (2213f9c feat: add greeting + checked arithmetic), with the active target highlighted — the orchestrator-native equivalent of tuicr’s -w/-r/commit targets.</div><div class="ffix"><b>Fix:</b> No change needed.</div></div></div></div></div>

diff --git a/src/ui/settings_modal.rs b/src/ui/settings_modal.rs
@@ -16,10 +16,24 @@ use crate::app::modals::SettingsField;
 use super::theme::Theme;
 use super::{key_hint_line, render_action_footer, render_modal_frame};
 
-/// Preferred modal width. Sized to fit the longest description plus the value
-/// column with a tidy gap, so values aren't flung to the far edge of a wide
-/// terminal. Clamped to the screen on narrow terminals.
+/// Default modal width. Sized to fit the value column with a tidy gap on a
+/// normal terminal. Clamped to the screen on narrow terminals.
 const MODAL_WIDTH: u16 = 66;
+
+/// Wider modal used on roomy (≥120-col) terminals so the longest field
+/// descriptions render in full instead of truncating with `…` — the value
+/// column stays the same width, the extra room all goes to the description.
+const MODAL_WIDTH_WIDE: u16 = 84;
+
+/// The modal width to use for a terminal `area_width` cols wide: the wide
+/// layout once there's room for it, the compact default otherwise.
+fn modal_width_for(area_width: u16) -> u16 {
+    if area_width >= 120 {
+        MODAL_WIDTH_WIDE
+    } else {
+        MODAL_WIDTH
+    }
+}
 
 /// A fixed `width × height` rect centered in `area` (clamped to it).
 fn centered_rect(width: u16, height: u16, area: Rect) -> Rect {
@@ -99,12 +113,13 @@ pub fn render_settings_modal(
     // key hints) is pinned to the bottom; the field list above it scroll-windows
     // around the active field when the modal is shorter than the content.
     let footer = footer_lines(state);
+    let width = modal_width_for(frame.area().width);
     // Build the rows first so the modal height matches the real content
     // (section headers, blank separators between sections, and field rows).
-    let rows = build_rows(state.modal, (MODAL_WIDTH - 2) as usize);
+    let rows = build_rows(state.modal, (width - 2) as usize);
     let desired = rows.len() as u16 + footer.len() as u16 + 2;
     let height = desired.min(frame.area().height.saturating_sub(2)).max(6);
-    let area = centered_rect(MODAL_WIDTH, height, frame.area());
+    let area = centered_rect(width, height, frame.area());
 
     let inner = render_modal_frame(frame, area, "Settings");
 
@@ -295,11 +310,19 @@ fn field_line<'a>(
         Style::default().fg(Theme::text_muted())
     };
     // Always reserve the marker column (2 cols) so value right-edges align on
-    // every row, restart-required or not.
-    let marker = if field.restart_required() {
-        " ⟳"
+    // every row, restart-required or not. The `⟳` glyph reuses the same
+    // accent-warning colour (bold) as the "some changes apply after restart"
+    // footer note, so the two read as the same signal — the old muted-gray
+    // glyph was nearly invisible. The reserved blank column stays muted (it
+    // paints nothing). `restart_required` is non-trivial, so compute it once.
+    let restart = field.restart_required();
+    let marker = if restart { " ⟳" } else { "  " };
+    let marker_style = if restart {
+        Style::default()
+            .fg(Theme::keybind_hint())
+            .add_modifier(Modifier::BOLD)
     } else {
-        "  "
+        Style::default().fg(Theme::text_muted())
     };
 
     // Columns: pointer(2) + keyword(keyword_width) + gap(1) + desc + pad +
@@ -329,6 +352,21 @@ fn field_line<'a>(
         Span::styled(desc, desc_style),
         Span::raw(" ".repeat(pad + value_pad)),
         Span::styled(value_str, value_style),
-        Span::styled(marker, Style::default().fg(Theme::text_muted())),
+        Span::styled(marker, marker_style),
     ])
+}
+
+#[cfg(test)]
+mod tests {
+    use super::*;
+
+    #[test]
+    fn modal_width_widens_only_on_roomy_terminals() {
+        // Below the 120-col threshold the compact default is used.
+        assert_eq!(modal_width_for(80), MODAL_WIDTH);
+        assert_eq!(modal_width_for(119), MODAL_WIDTH);
+        // At/above the threshold the wide layout gives descriptions more room.
+        assert_eq!(modal_width_for(120), MODAL_WIDTH_WIDE);
+        assert_eq!(modal_width_for(200), MODAL_WIDTH_WIDE);
+    }
 }

diff --git a/src/ui/mod.rs b/src/ui/mod.rs
@@ -326,6 +326,44 @@ pub fn render_action_footer(
     modal_button_keys(hits, &[(code, mods), (KeyCode::Esc, KeyModifiers::NONE)])
 }
 
+/// Render a footer with a left-aligned `hint` line and right-aligned action
+/// buttons, reserving the buttons their own space so a long hint can never
+/// collide with them. The buttons are drawn first (right-packed via
+/// [`render_action_footer`]); the hint is then clipped to the space left of the
+/// leftmost button (minus a one-column gap), so it elides cleanly rather than
+/// rendering underneath the pills. Use this instead of painting a full-width
+/// hint `Paragraph` and the buttons over it whenever the hint can be wide (e.g.
+/// the repo picker's per-focus key hints).
+pub fn render_hint_action_footer(
+    frame: &mut Frame,
+    area: Rect,
+    hint: Line<'_>,
+    primary: (
+        &str,
+        crossterm::event::KeyCode,
+        crossterm::event::KeyModifiers,
+    ),
+    secondary_label: &str,
+) -> ModalButtons {
+    let buttons = render_action_footer(frame, area, primary, secondary_label);
+    let buttons_left = buttons
+        .iter()
+        .map(|(hit, _, _)| hit.rect.x)
+        .min()
+        .unwrap_or_else(|| area.right());
+    // One blank column between the hint and the pills; clip the hint to what
+    // remains so it never overlaps the buttons.
+    let hint_width = buttons_left
+        .saturating_sub(1)
+        .saturating_sub(area.x)
+        .min(area.width);
+    if hint_width > 0 {
+        let hint_area = Rect::new(area.x, area.y, hint_width, area.height);
+        frame.render_widget(Paragraph::new(hint), hint_area);
+    }
+    buttons
+}
+
 /// Render the standard selector-modal footer into the single-row `area`: a
 /// left-aligned `j/k navigate` hint plus right-aligned `[ Select ]` (Enter) /
 /// `[ Cancel ]` (Esc) buttons. Returns the buttons paired with their replay
@@ -1087,6 +1125,41 @@ mod tests {
         assert!(
             row.contains('…'),
             "left-aligned overflow marks dropped buttons with an ellipsis, got {row:?}"
+        );
+    }
+
+    #[test]
+    fn render_hint_action_footer_clips_hint_before_the_buttons() {
+        use crossterm::event::{KeyCode, KeyModifiers};
+        let backend = ratatui::backend::TestBackend::new(40, 1);
+        let mut terminal = ratatui::Terminal::new(backend).unwrap();
+        let mut buttons = Vec::new();
+        terminal
+            .draw(|f| {
+                let area = Rect::new(0, 0, 40, 1);
+                // A hint far wider than the space left of the right-packed pills.
+                let hint = Line::from("aaaaaaaaaaaaaaaaaaaaaaaaaaaaaaaaaaaaaaaa");
+                buttons = render_hint_action_footer(
+                    f,
+                    area,
+                    hint,
+                    ("Done", KeyCode::Enter, KeyModifiers::NONE),
+                    "Cancel",
+                );
+            })
+            .unwrap();
+        let buttons_left = buttons.iter().map(|(h, _, _)| h.rect.x).min().unwrap();
+        let buf = terminal.backend().buffer();
+        // The cell directly before the leftmost pill is the reserved gap (blank),
+        // so the clipped hint never renders underneath a button.
+        assert!(buttons_left >= 2);
+        assert_eq!(buf[(buttons_left - 1, 0)].symbol(), " ");
+        let hint_cells: String = (0..buttons_left - 1)
+            .map(|x| buf[(x, 0)].symbol())
+            .collect();
+        assert!(
+            hint_cells.starts_with('a'),
+            "the hint fills the space left of the gap, got {hint_cells:?}"
         );
     }
 

diff --git a/src/ui/repo_picker_modal.rs b/src/ui/repo_picker_modal.rs
@@ -98,11 +98,13 @@ pub fn render_repo_picker_modal(
     );
 
     // Footer: focus-dependent key hints on the left, clickable `[ Done ]`
-    // (Enter) / `[ Cancel ]` (Esc) buttons on the right.
-    frame.render_widget(Paragraph::new(footer_line(state)), footer_area);
-    let buttons = super::render_action_footer(
+    // (Enter) / `[ Cancel ]` (Esc) buttons on the right. The hint is clipped to
+    // the space left of the pills so a wide hint row can't render underneath
+    // them (see `render_hint_action_footer`).
+    let buttons = super::render_hint_action_footer(
         frame,
         footer_area,
+        footer_line(state),
         (
             "Done",
             crossterm::event::KeyCode::Enter,
